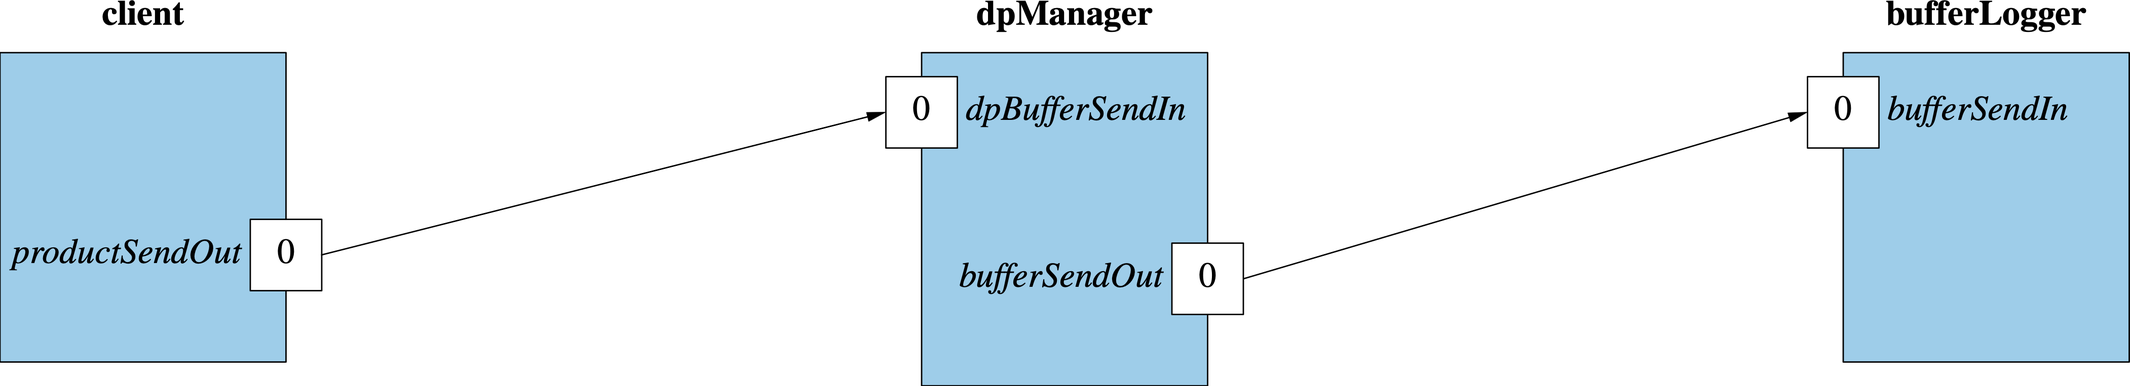
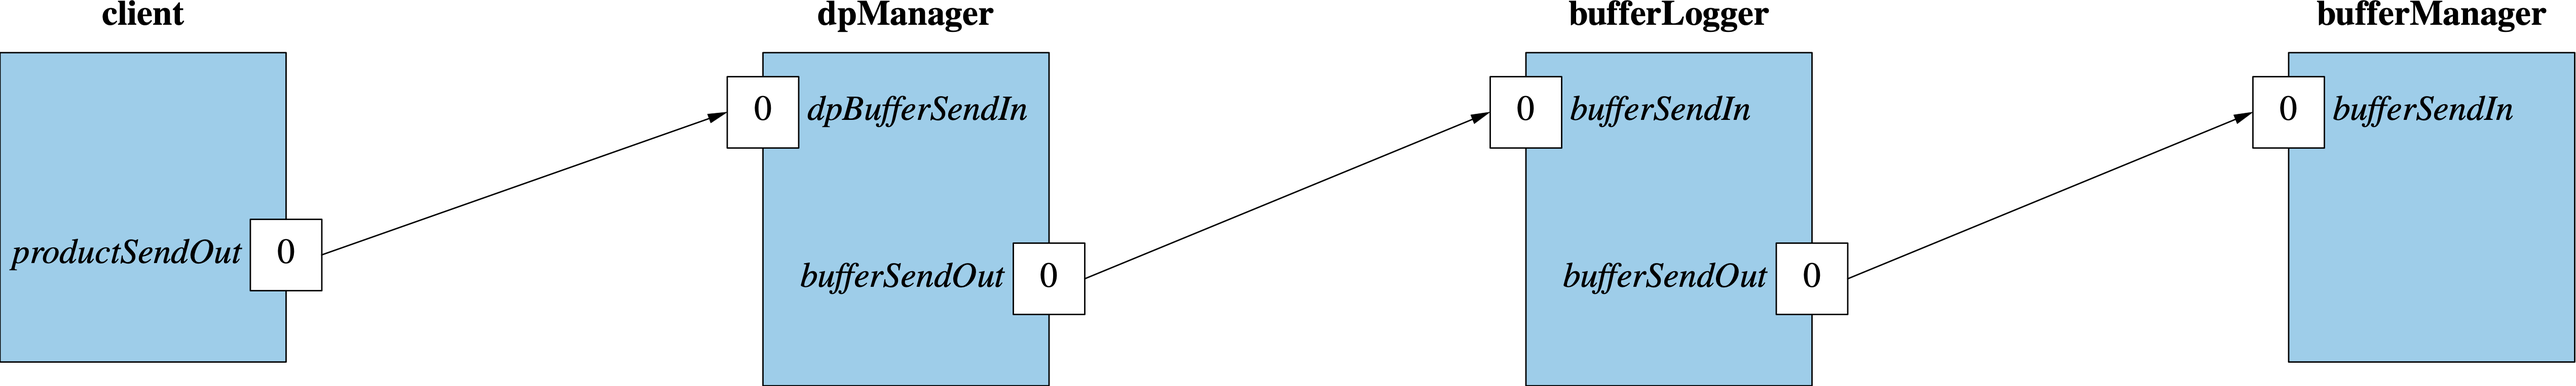
Revise SDD for DpManager

diff --git a/Svc/DpManager/docs/sdd.md b/Svc/DpManager/docs/sdd.md
@@ -115,11 +115,11 @@ The diagrams use the following instances:
 `productRequestOut` is the special `product request` port.
 `productRecvIn` is the special `product recv` port.
 
-* `bufferManager`: An instance of [`Svc::BufferManager`](../../BufferManager/docs/sdd.md)
+* `bufferManager`: An instance of [`Svc::BufferManager`](../../BufferManager/docs/sdd.md).
 
 * `bufferManager`: An instance of `Svc::DpManager`.
 
-* `bufferLogger`: An instance of [`Svc::BufferLogger`](../../BufferLogger)
+* `bufferLogger`: An instance of [`Svc::BufferLogger`](../../BufferLogger).
 
 #### 5.1.1. Requesting Data Product Buffers
 
@@ -133,12 +133,36 @@ The diagrams use the following instances:
 <img src="img/top/product-send.png" width=1000/>
 </div>
 
-#### 5.1.3. Deallocating Data Product Buffers
-
-<div>
-<img src="img/top/buffer-deallocate.png" width=750/>
-</div>
-
 ### 5.2. Sequence Diagrams
+
+#### Requesting a Data Product Buffer
+
+TODO
+
+```mermaid
+sequenceDiagram
+    activate activeComm
+    activeComm->>buffMgr: Allocate frame buffer FB
+    buffMgr-->>activeComm: Return FB
+    activeComm->>activeComm: Fill FB with framed data
+    activeComm->>deframer: Send FB[framedIn]
+    deframer->>buffMgr: Allocate packet buffer PB [bufferAllocate]
+    buffMgr-->>deframer: Return PB
+    deframer->>deframer: Deframe FB into PB
+    deframer->>deframer: Copy PB into a command packet C
+    deframer-)cmdDisp: Send C [comOut]
+    deframer->>buffMgr: Deallocate PB [bufferDeallocate]
+    buffMgr-->>deframer: 
+    deframer->>buffMgr: Deallocate FB [framedDeallocate]
+    buffMgr-->>deframer: 
+    deframer-->>activeComm: 
+    deactivate  activeComm 
+    activate cmdDisp
+    cmdDisp->>deframer: Send cmd response [cmdResponseIn]
+    deframer-->>cmdDisp: 
+    deactivate cmdDisp
+```
+
+#### Sending a Data Product
 
 TODO
